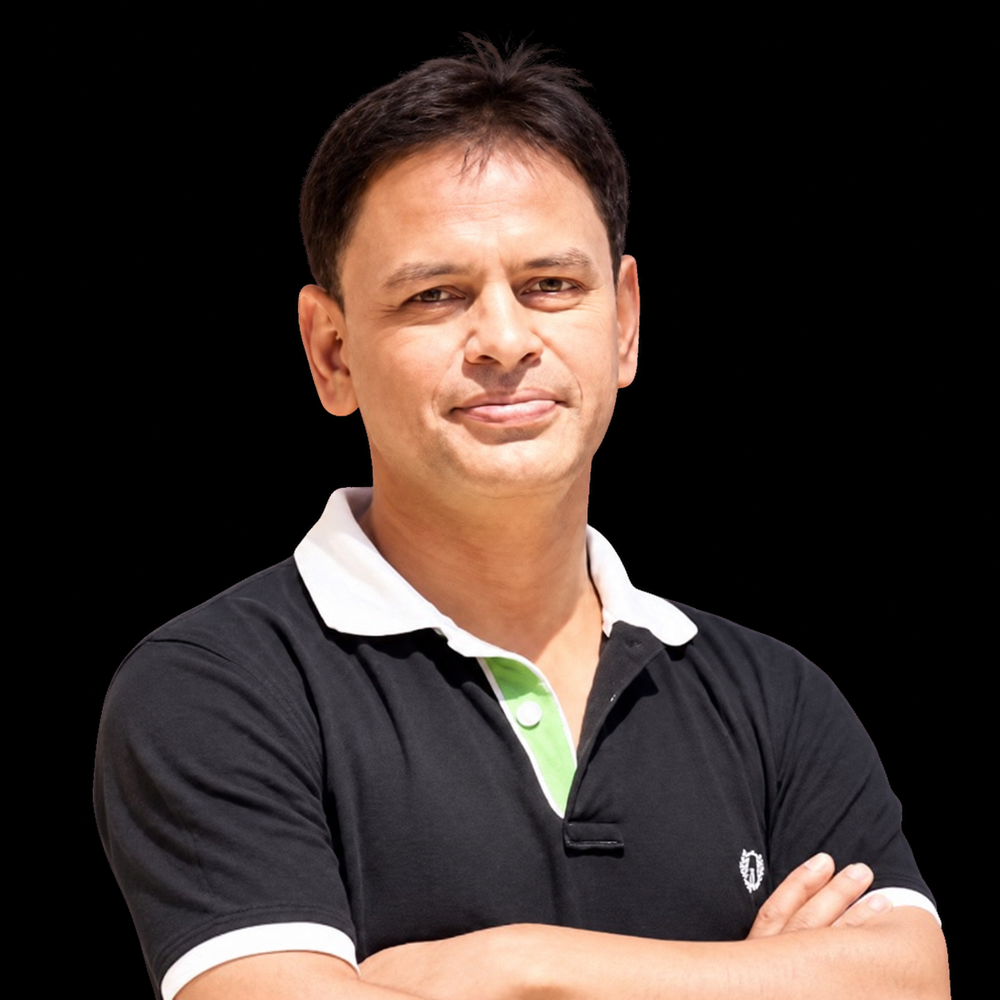
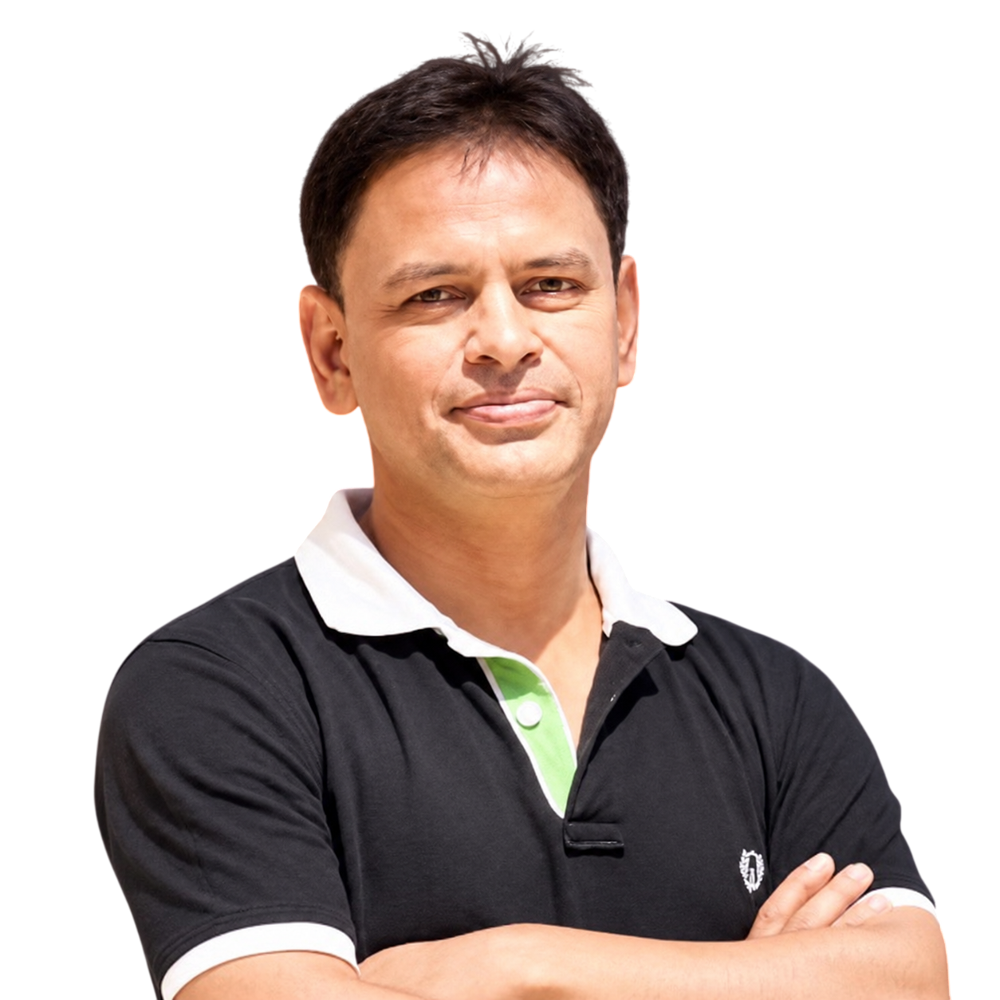
Upload files via ZiptoGit

diff --git a/src/components/Hero.tsx b/src/components/Hero.tsx
@@ -8,7 +8,7 @@ export default function Hero() {
     <FadeIn delay={0.15} y={40} className="overflow-hidden"><h1 className="hero-heading font-black uppercase tracking-tight leading-none whitespace-nowrap w-full text-[11.5vw] mt-8 sm:mt-6 md:mt-2">Hi, i&apos;m dayal</h1></FadeIn>
     <div className="absolute left-1/2 -translate-x-1/2 z-10 w-[260px] sm:w-[340px] md:w-[420px] lg:w-[480px] top-1/2 -translate-y-1/2 sm:top-auto sm:translate-y-0 sm:bottom-0">
       <FadeIn delay={0.6} y={30}><Magnet padding={150} strength={3}>
-        <img src="/images/dayal-singh-gosain.png" width={400} height={400} alt="Portrait of Dayal Singh Gosain" className="w-full h-auto block select-none mix-blend-lighten" />
+        <img src="/images/dayal-singh-gosain.png" width={400} height={400} alt="Portrait of Dayal Singh Gosain" className="w-full h-auto block select-none" />
       </Magnet></FadeIn></div>
     <div className="relative z-20 mt-auto flex justify-between items-end pb-7 sm:pb-8 md:pb-10 gap-4">
       <FadeIn delay={0.35} y={20}><p className="text-[#D7E2EA] font-light uppercase tracking-wide leading-snug max-w-[160px] sm:max-w-[220px] md:max-w-[260px]" style={{ fontSize: 'clamp(0.75rem,1.4vw,1.5rem)' }}>
